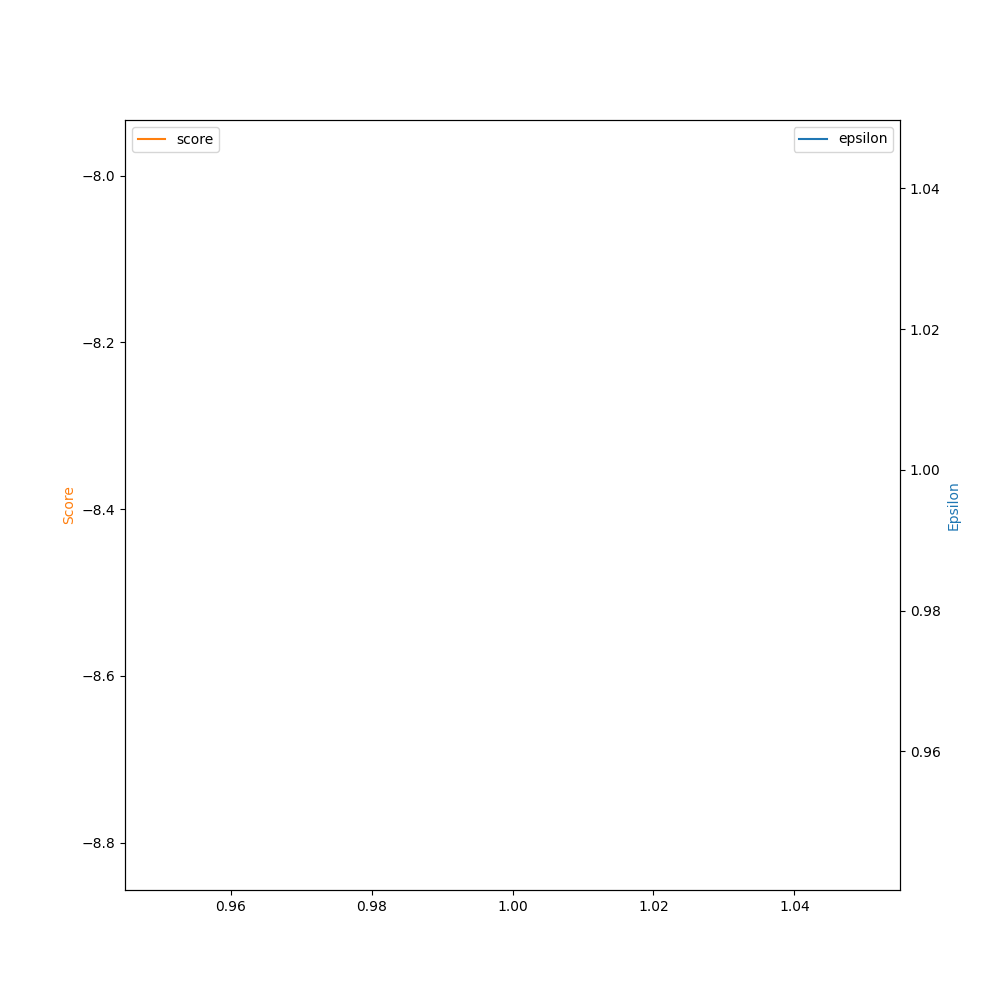
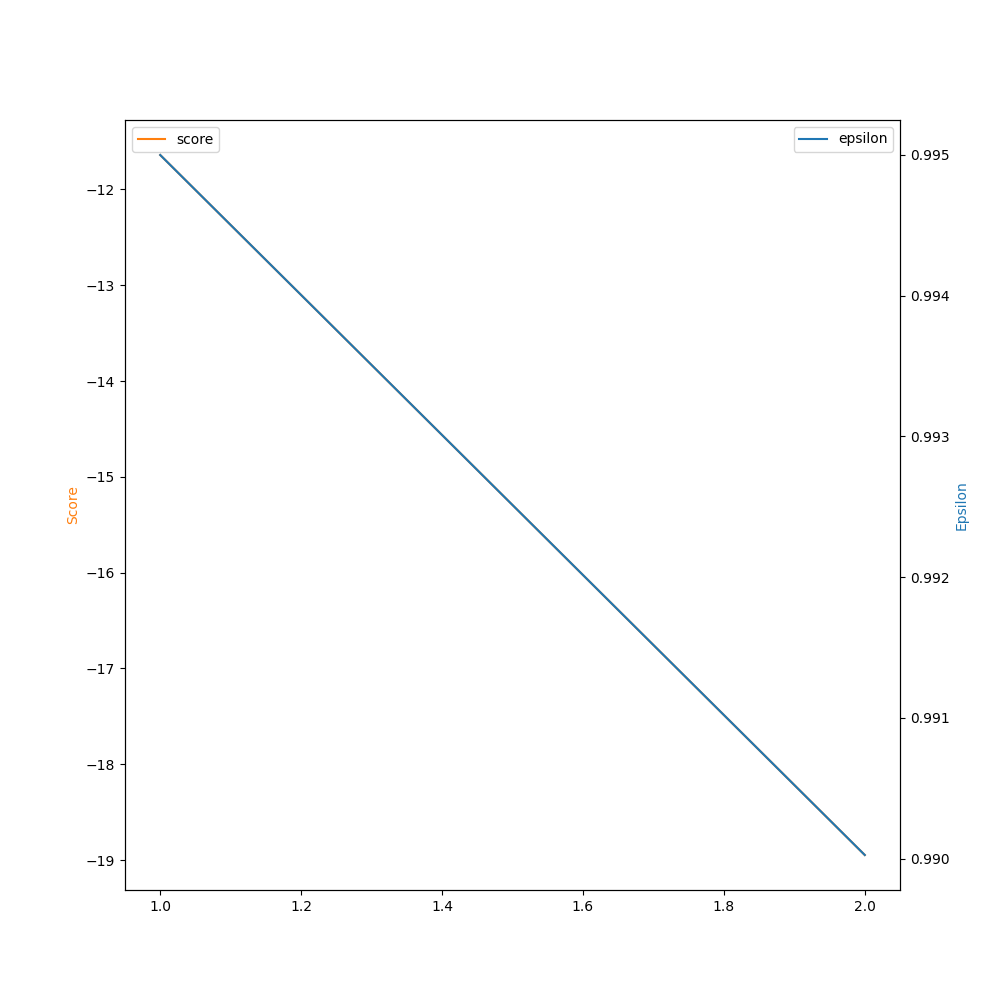
rweard change

diff --git a/Env/env.py b/Env/env.py
@@ -168,7 +168,7 @@ class Basic():
         if self.new_distance > self.old_distance:
                 self.reward+=-.05
         if self.new_distance < self.old_distance:
-                self.reward+=.01
+                self.reward+=-.01
                 
         if not self.no_choice:
             self.vehicle.set_destination(np.max(action))
@@ -189,7 +189,7 @@ class Basic():
        
             
         if self.vedge==self.pedge:
-                self.reward+=2.5
+                self.reward+=5
                 done=True
         if self.steps>self.steps_per_episode:
                 self.reward+=-2
